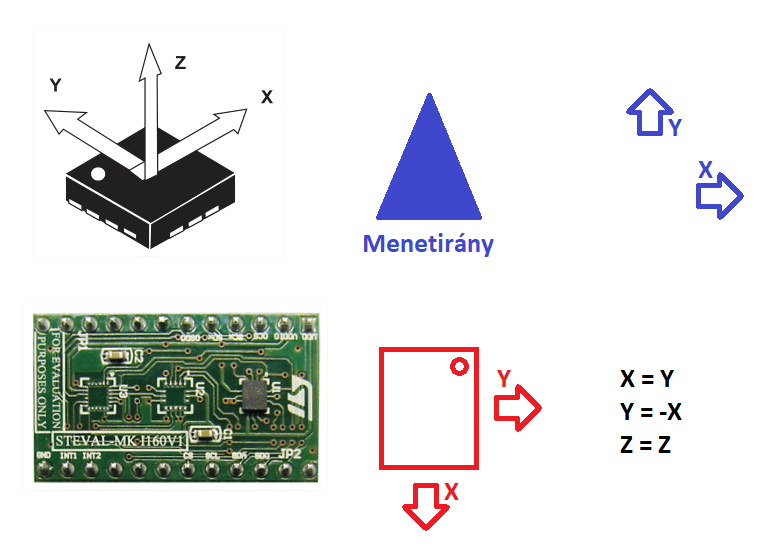
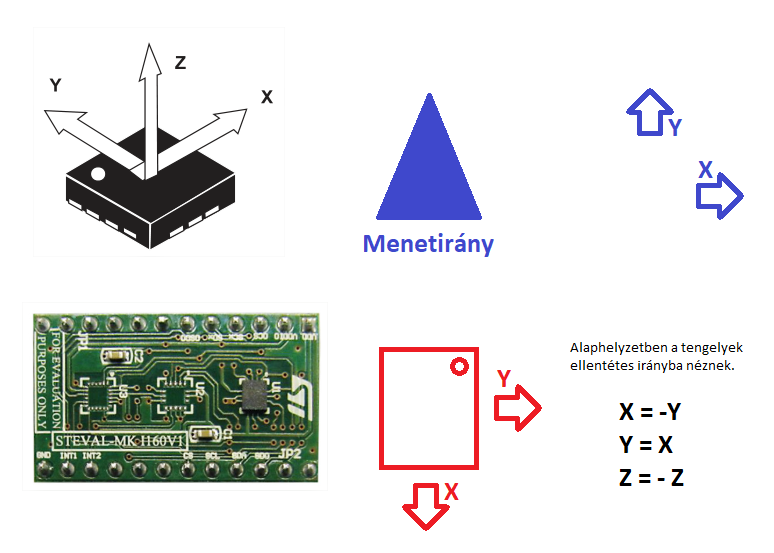
Accelerometer working even more

diff --git a/stm32/main-board/2_Handler/Src/inert.c b/stm32/main-board/2_Handler/Src/inert.c
@@ -23,72 +23,74 @@
 
 // Defines -------------------------------------------------------------------------------------------------------------
 
+#define G 9.81f
+
 #define REGS_TO_READ (12u)
 
 // Typedefs ------------------------------------------------------------------------------------------------------------
 
 // Local (static) & extern variables -----------------------------------------------------------------------------------
 
-static uint8_t regSequence[REGS_TO_READ] =
-{
-	OUTX_L_XL,  OUTX_H_XL,  // Accelerometer X
-	OUTY_L_XL,  OUTY_H_XL,  // Accelerometer Y
-	OUTZ_L_XL,  OUTZ_H_XL,  // Accelerometer Z
-	OUTX_L_G,   OUTX_H_G,   // Gyroscope X
-	OUTY_L_G,   OUTY_H_G,   // Gyroscope Y
-	OUTZ_L_G,   OUTZ_H_G    // Gyroscope Z
-};
+static int16_t tmp_accel[3];
+static int16_t tmp_angvel[3];
 
-static uint8_t regResult[REGS_TO_READ];
+static int16_t ret_accel[3];
+static int16_t ret_angvel[3];
 
-static Accel  ret_accel;
-static AngVel ret_angvel;
+static uint8_t regSource[REGS_TO_READ];
+static uint8_t* regDest[REGS_TO_READ];
 
 static int i;
 
 // Local (static) function prototypes ----------------------------------------------------------------------------------
 
 static void WriteRegBlocking(uint8_t regAddr, uint8_t data);
+static void fillRegDest();
 
 // Global function definitions -----------------------------------------------------------------------------------------
 
 void inertInit()
 {
+	fillRegDest();
+
 	HAL_GPIO_WritePin(INRT_SD0_GPIO_Port, INRT_SD0_Pin, GPIO_PIN_RESET); // Pull down SD0
 	HAL_GPIO_WritePin(INRT_CS_GPIO_Port, INRT_CS_Pin, GPIO_PIN_SET); // CS (Stays active 4ever)
 
 	// Enable accelerometer
 	WriteRegBlocking(CTRL9_XL, 0x38); // Acc X, Y, Z axes enabled
-	WriteRegBlocking(CTRL1_XL, 0x60); // Acc = 416Hz (High-Performance mode)
+	WriteRegBlocking(CTRL1_XL, 0x6C); // Acc = 416Hz (High-Performance mode); Full scale: +-8g
 
 	// Enable gyroscope
 	WriteRegBlocking(CTRL10_C, 0x38); // Gyro X, Y, Z axes enabled
-	WriteRegBlocking(CTRL2_G, 0x60); // Gyro = 416Hz (High-Performance mode)
+	WriteRegBlocking(CTRL2_G, 0x60);  // Gyro = 416Hz (High-Performance mode)
 
 	// TODO enable interrupt
 
-
-	i = 0;
 }
 
-Accel inertGetAccel()
+ACCEL inertGetAccel()
 {
-	Accel* ptr = (Accel*) &regResult[0];
-    return *ptr;
+    ACCEL ret;
+
+    ret.a_x = ret_accel[0] / -4096.0f * G;
+    ret.a_y = ret_accel[1] / -4096.0f * G;
+    ret.a_z = ret_accel[2] / -4096.0f * G;
+
+	return ret;
 }
 
-AngVel inertGetAngVel()
+ANGVEL inertGetAngVel()
 {
-    AngVel* ptr = (AngVel*) &regResult[6];
-    return *ptr;
+	ANGVEL ret;
+	return ret;
 }
 
 // Sensor reading ------------------------------------------
 
 void inertTriggerMeasurement()
 {
-	HAL_I2C_Mem_Read_IT(INERTIAL_I2C, LSM6DS3_ADDR0, regSequence[i], 1, &regResult[i], 1);
-	i++;
+	i = 0;
+	HAL_I2C_Mem_Read_IT(INERTIAL_I2C, LSM6DS3_ADDR0, regSource[i], 1, regDest[i], 1);
 }
 
 void i2cInertialSensorMemRxCallback()
@@ -97,22 +99,22 @@ void i2cInertialSensorMemRxCallback()
 
 	if (i < REGS_TO_READ)
 	{
-		HAL_I2C_Mem_Read_IT(INERTIAL_I2C, LSM6DS3_ADDR0, regSequence[i], 1, &regResult[i], 1);
+		HAL_I2C_Mem_Read_IT(INERTIAL_I2C, LSM6DS3_ADDR0, regSource[i], 1, regDest[i], 1);
 	}
 	else // Sensor reading finished
 	{
-	    Accel*  acc_ptr =  (Accel*) &regResult[0];
-	    AngVel* ang_ptr = (AngVel*) &regResult[6];
-
 	    __disable_irq(); // Cheap thread safety
 
 		// Copy the temporary values to their final location
-		ret_accel  = *acc_ptr;
-		ret_angvel = *ang_ptr;
+		int j;
+
+		for (j = 0; j < 3; j++)
+		{
+			ret_accel[j]  = tmp_accel[j];
+			ret_angvel[j] = tmp_angvel[j];
+		}
 
 		__enable_irq();
-
-		i = 0;
 	}
 }
 
@@ -122,4 +124,35 @@ static void WriteRegBlocking(uint8_t regAddr, uint8_t data)
 {
 	// Assuming SD0 is pulled down
 	HAL_I2C_Mem_Write(INERTIAL_I2C, LSM6DS3_ADDR0, regAddr, 1, &data, 1, HAL_MAX_DELAY);
+}
+
+static void fillRegDest()
+{
+	regSource[0] = OUTX_L_XL; // Accelerometer X
+	regSource[1] = OUTX_H_XL;
+	regSource[2] = OUTY_L_XL; // Accelerometer Y
+	regSource[3] = OUTY_H_XL;
+	regSource[4] = OUTZ_L_XL; // Accelerometer Z
+	regSource[5] = OUTZ_H_XL;
+
+	regSource[6] = OUTX_L_G;  // Gyroscope X
+	regSource[7] = OUTX_H_G;
+	regSource[8] = OUTY_L_G;  // Gyroscope Y
+	regSource[9] = OUTY_H_G;
+	regSource[10] = OUTZ_L_G; // Gyroscope Z
+	regSource[11] = OUTZ_H_G;
+
+	regDest[0]  = &((uint8_t*) &tmp_accel)[2]; // Accelerometer Y
+	regDest[1]  = &((uint8_t*) &tmp_accel)[3];
+	regDest[2]  = &((uint8_t*) &tmp_accel)[0]; // Accelerometer X
+	regDest[3]  = &((uint8_t*) &tmp_accel)[1];
+	regDest[4]  = &((uint8_t*) &tmp_accel)[4]; // Accelerometer Z
+	regDest[5]  = &((uint8_t*) &tmp_accel)[5];
+
+	regDest[6]  = &((uint8_t*) &tmp_angvel)[2]; // Gyroscope Y
+	regDest[7]  = &((uint8_t*) &tmp_angvel)[3];
+	regDest[8]  = &((uint8_t*) &tmp_angvel)[0]; // Gyroscope X
+	regDest[9]  = &((uint8_t*) &tmp_angvel)[1];
+	regDest[10] = &((uint8_t*) &tmp_angvel)[4]; // Gyroscope Z
+	regDest[11] = &((uint8_t*) &tmp_angvel)[5];
 }

diff --git a/stm32/main-board/2_Handler/Inc/inert.h b/stm32/main-board/2_Handler/Inc/inert.h
@@ -16,25 +16,25 @@
 
 typedef struct
 {
-	uint16_t a_x;
-	uint16_t a_y;
-	uint16_t a_z;
+	float a_x;
+	float a_y;
+	float a_z;
 }
-Accel;
+ACCEL;
 
 typedef struct
 {
-	uint16_t omega_x;
-	uint16_t omega_y;
-	uint16_t omega_z;
+	float omega_x;
+	float omega_y;
+	float omega_z;
 }
-AngVel;
+ANGVEL;
 
 // Variables -----------------------------------------------------------------------------------------------------------
 
 // Function prototypes -------------------------------------------------------------------------------------------------
 
 void inertInit();
-Accel inertGetAccel();
-AngVel inertGetAngVel();
+ACCEL inertGetAccel();
+ANGVEL inertGetAngVel();
 void inertTriggerMeasurement();

diff --git a/stm32/main-board/1_App/Src/app_navigation.c b/stm32/main-board/1_App/Src/app_navigation.c
@@ -55,11 +55,11 @@ void Task_Navigation(void* p)
 {
 	(void)p;
 
-	Accel prev_a;
-	Accel a;
+	ACCEL prev_a;
+	ACCEL a;
 	cVelocityVector v;
 
-	AngVel w;
+	ANGVEL w;
 	cAngularVelocity w_drn;
 
 	cNedParameters ned;

diff --git a/stm32/main-board/1_App/Src/app_inert.c b/stm32/main-board/1_App/Src/app_inert.c
@@ -38,7 +38,7 @@ void TaskInit_inert(void)
 
 void Task_inert(void* p)
 {
-	Accel a;
+	ACCEL a;
 
 	while (1)
 	{
